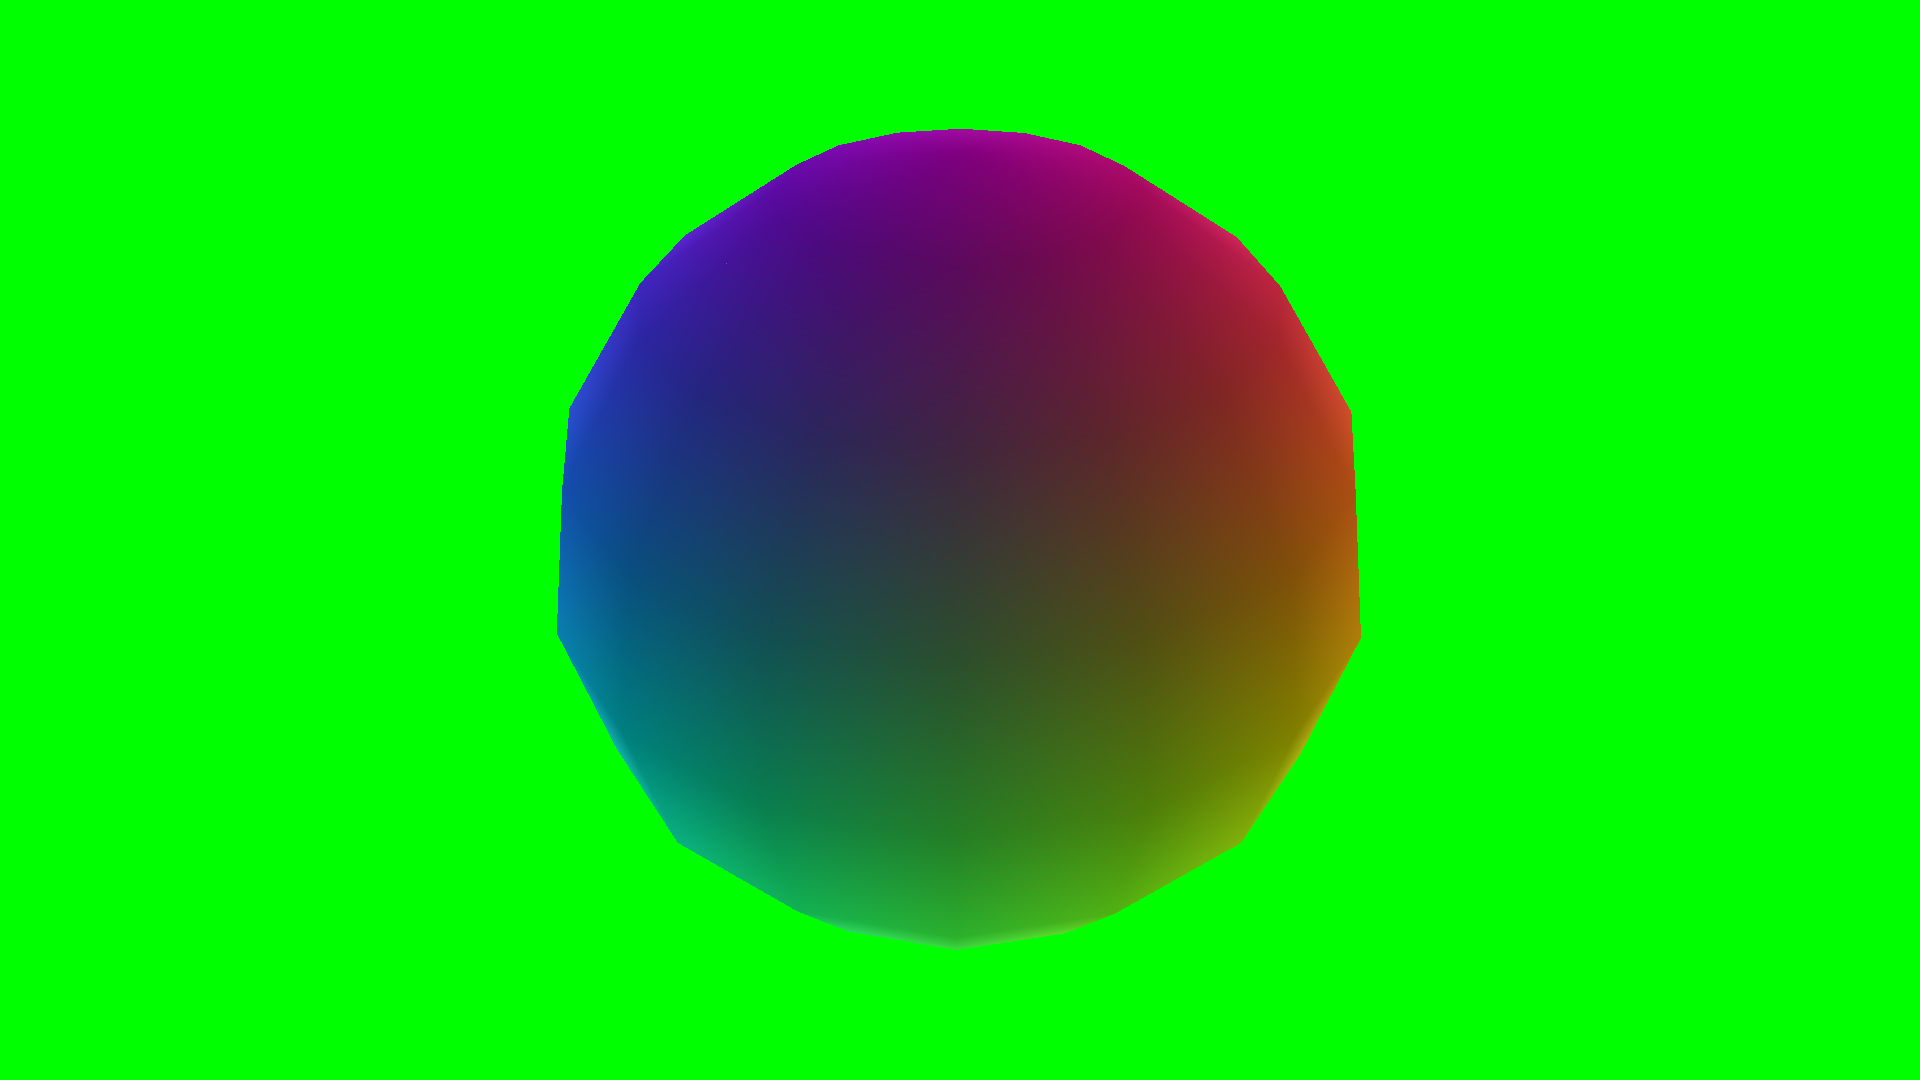
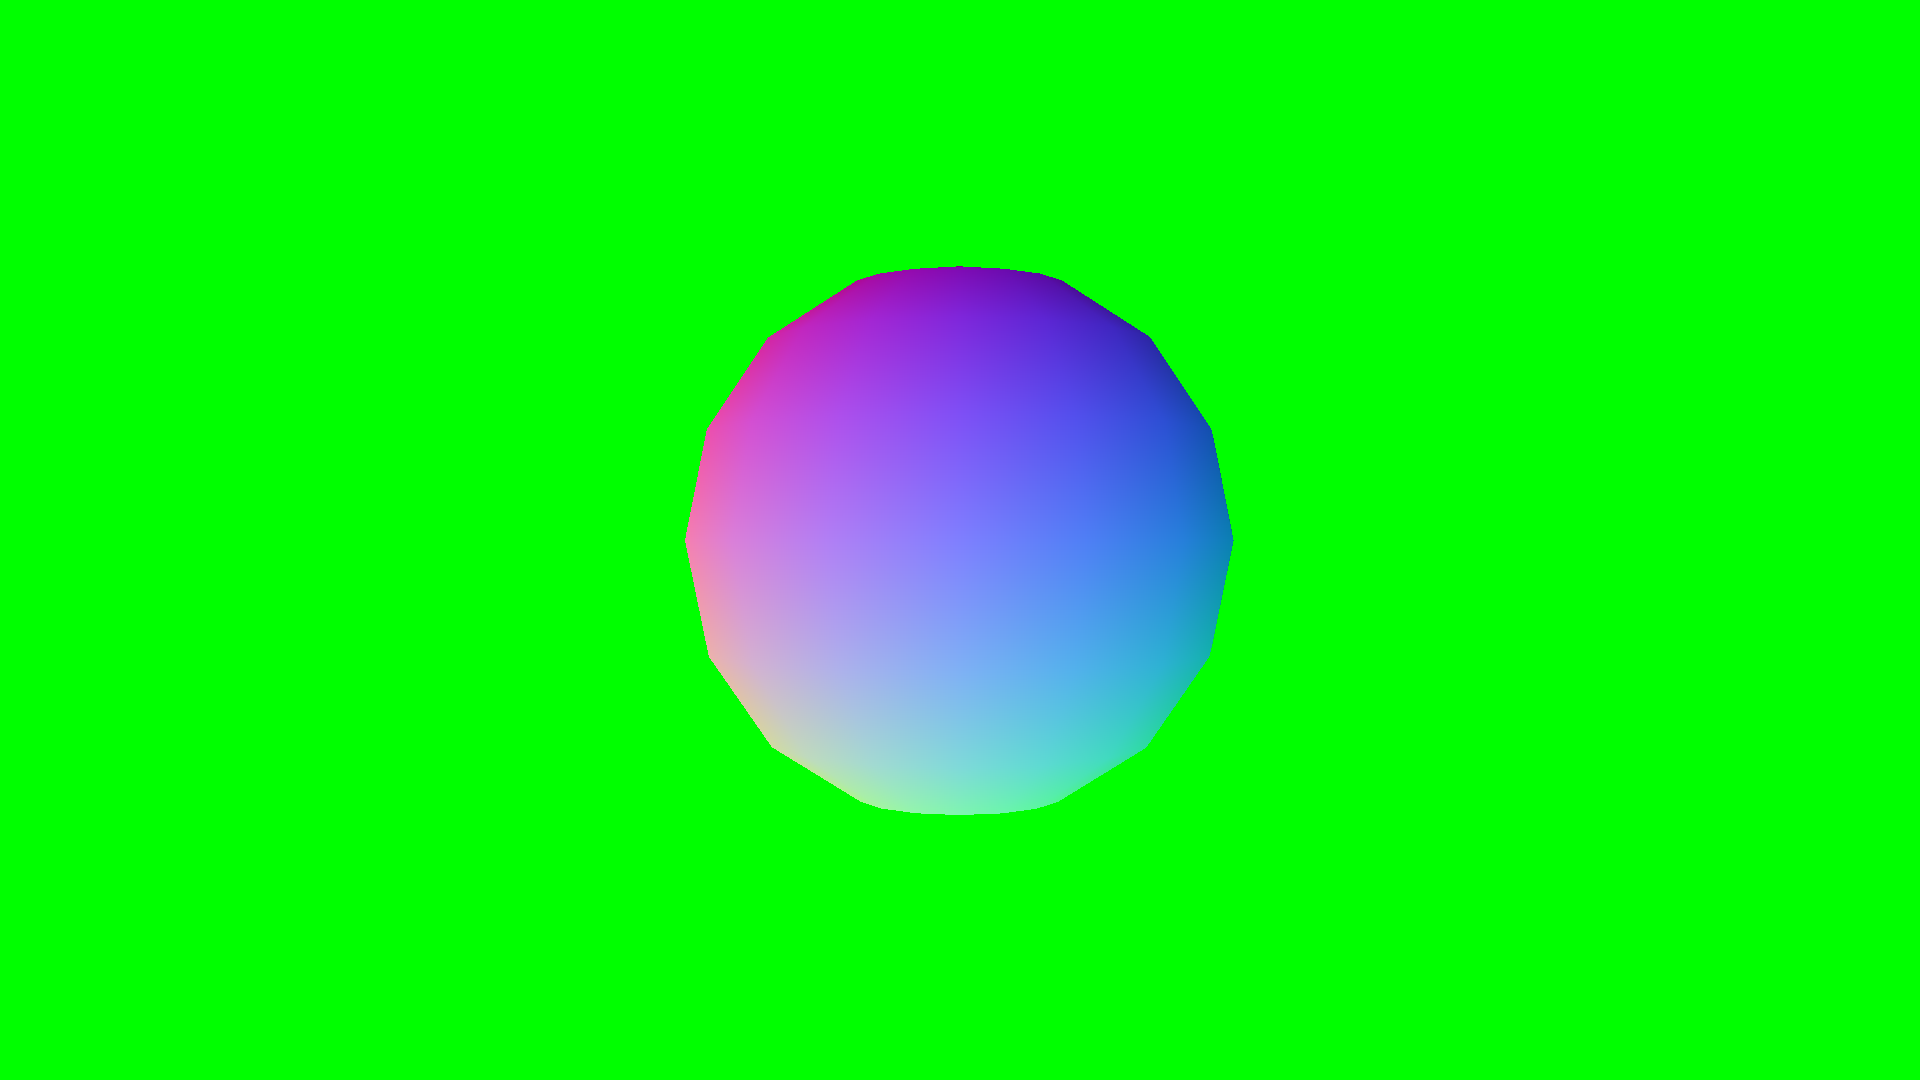
image changes

Changed region(s): [[0.2812, 0.1222, 0.7188, 0.8861]]

diff --git a/project/Form1.cs b/project/Form1.cs
@@ -71,19 +71,20 @@ namespace project.RayTracing
 
             LoadOBJ loader = new LoadOBJ();
 
-            
+            /*
             c1 = new Camera(new Vector3(-2, -2, -2), new Vector3(1, 1, 1), up, 1920, 1080);
             filename = "../../../crate.obj";
             m1 = loader.Load(filename);
             filename = "../../crate.png";
             output = new Image(c1, m1, filename);
             
-            /*
+            */
+            c1 = new Camera(new Vector3(0, 0, 5), new Vector3(0, 0, 0), up, 1920, 1080);
             filename = "../../../sphere.obj";
             m1 = loader.Load(filename);
             filename = "../../sphere.png";
             output = new Image(c1, m1, filename);
-            */
+            
 
             /*
             c1 = new Camera(new Vector3(-40, -40, -70), new Vector3(0, 0, 0), up, 1920, 1080);
